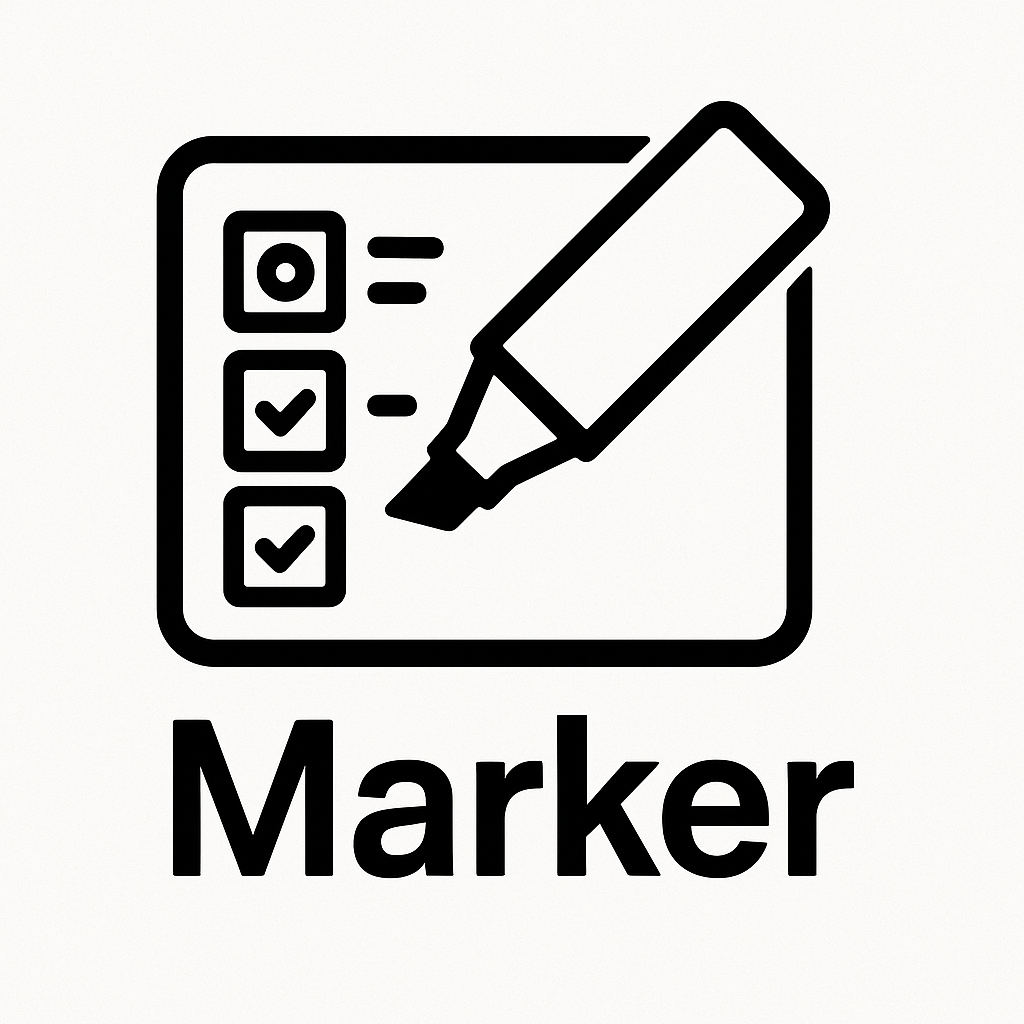
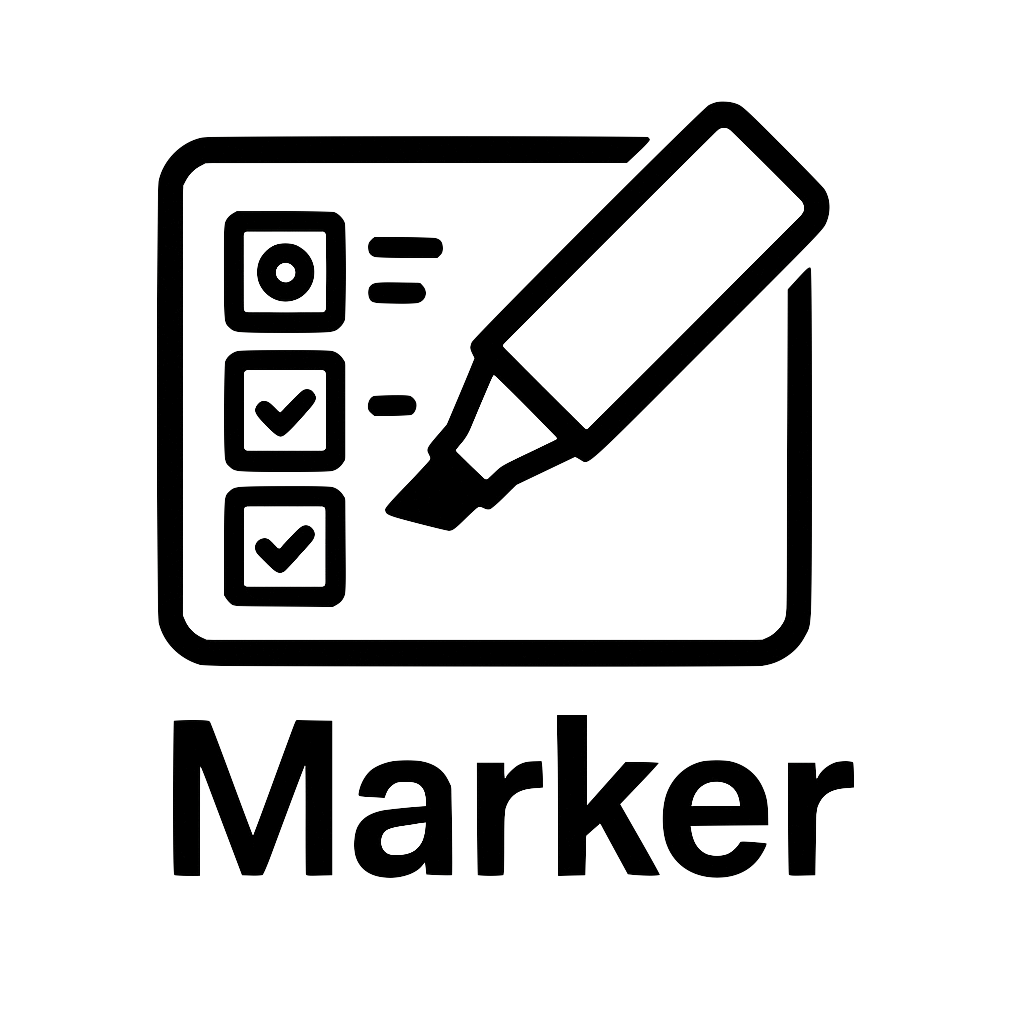
Compressed assets for faster loading time.

diff --git a/projects/now-playing-indicator.md b/projects/now-playing-indicator.md
@@ -1,7 +1,7 @@
 ---
 layout: project
 type: project
-image: img/now-playing-indicator/now-playing-api-dashboard.png
+image: img/now-playing-indicator/now-playing-api-dashboard_compressed.png
 title: "Now Playing API"
 date: 2025
 published: true

diff --git a/projects/honorthesis.md b/projects/honorthesis.md
@@ -1,7 +1,7 @@
 ---
 layout: project
 type: project
-image: img/honorthesis/FinalPoster.png
+image: img/honorthesis/FinalPoster_compressed.png
 title: "Exploring Neuroplasticity Through Machine Learning"
 startDate: 2022
 date: 2025

diff --git a/projects/stockabnormalitydetector.md b/projects/stockabnormalitydetector.md
@@ -1,7 +1,7 @@
 ---
 layout: project
 type: project
-image: img/stock-abnormality-detector/poster.png
+image: img/stock-abnormality-detector/poster_compressed.png
 title: "Stock Abnormality Detector"
 date: 2024
 published: true

diff --git a/essays/faster-loading.md b/essays/faster-loading.md
@@ -1,0 +1,10 @@
+---
+layout: essay
+type: essay
+title: "Website Load Optimization using this Site as a Benchmark"
+date: 2025-07-08
+published: false
+labels:
+  - Web Development
+  - Profiling
+---

diff --git a/projects/healthviz.md b/projects/healthviz.md
@@ -1,7 +1,7 @@
 ---
 layout: project
 type: project
-image: img/healthviz/healthviz_icon.png
+image: img/healthviz/healthviz_icon_compressed.png
 title: "HealthViz"
 startDate: 2025
 date: present

diff --git a/projects/astar-viz.md b/projects/astar-viz.md
@@ -1,7 +1,7 @@
 ---
 layout: project
 type: project
-image: img/astar-viz/demo.png
+image: img/astar-viz/demo_compressed.png
 title: "A* Visualization"
 date: 2024
 published: true
